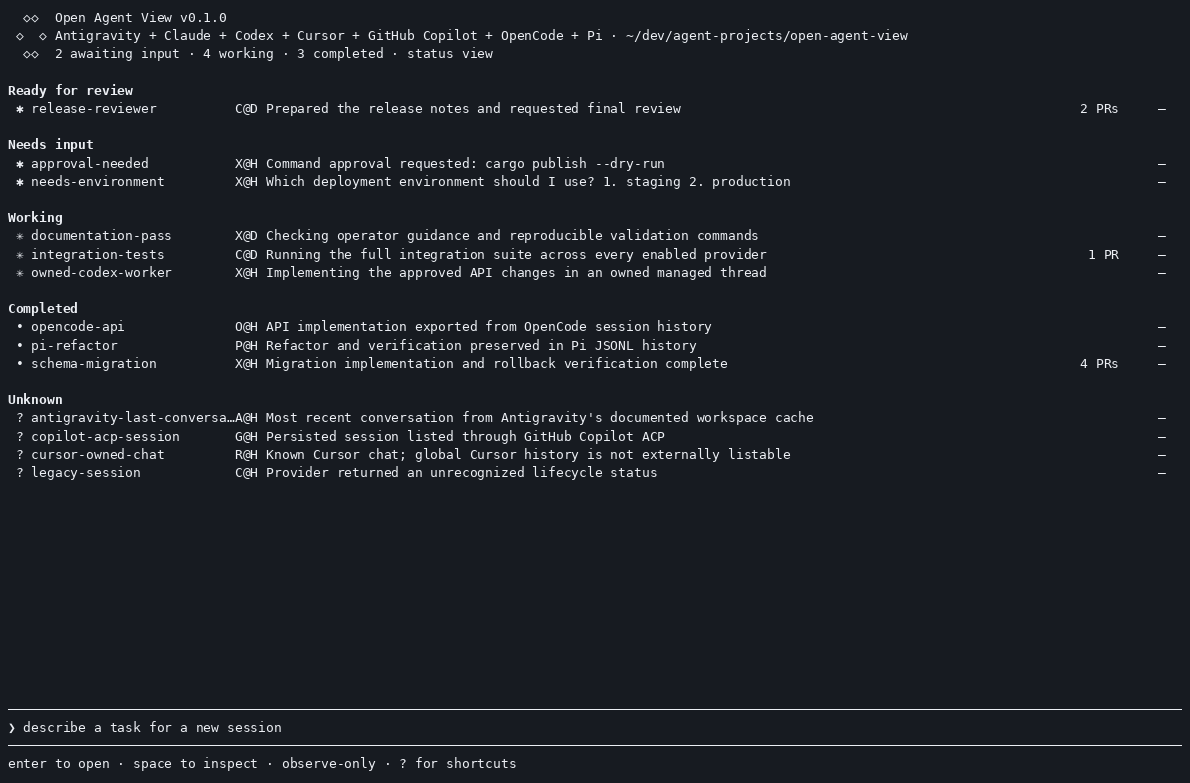
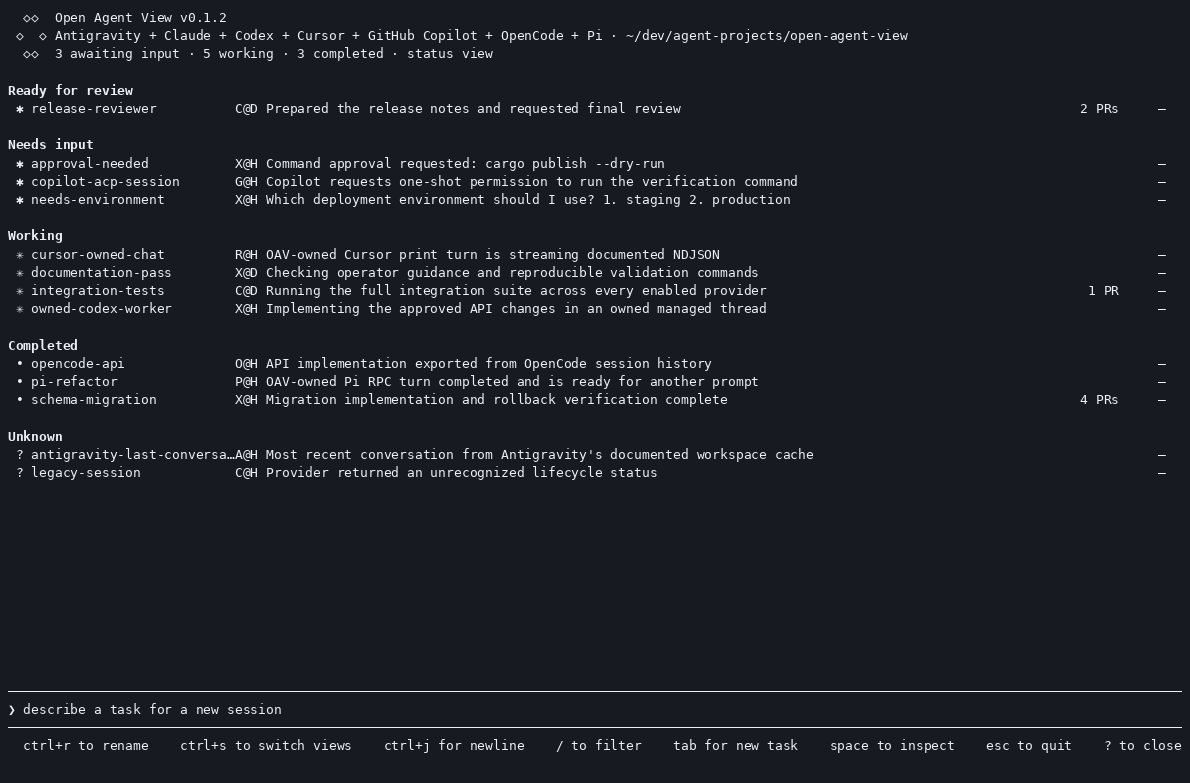
release: prepare private preview v0.1.2

diff --git a/tests/real_tty.rs b/tests/real_tty.rs
@@ -266,7 +266,7 @@ fn all_supported_providers_coexist_in_one_real_terminal() {
 fn wide_real_tty_exercises_primary_interactions_and_restores_terminal() {
     let mut app = PtyApp::spawn(120, 34);
     let startup = app.wait_for("populated startup view", |screen| {
-        screen.contains("Open Agent View v0.1.1")
+        screen.contains("Open Agent View v0.1.2")
             && screen.contains("Ready for review")
             && screen.contains("approval-needed")
             && screen.contains("schema-migration")
@@ -304,7 +304,9 @@ fn wide_real_tty_exercises_primary_interactions_and_restores_terminal() {
     app.send(b"approval");
     app.send(ENTER);
     let filtered = app.wait_for("applied filter", |screen| {
-        screen.contains("approval-needed") && !screen.contains("release-reviewer")
+        screen.contains("approval-needed")
+            && !screen.contains("release-reviewer")
+            && screen.contains("type to start a new session · / to change filter")
     });
     assert!(filtered.contains("type to start a new session · / to change filter"));
 
@@ -581,7 +583,7 @@ fn real_tty_renders_actionable_request_and_confirmation_states() {
 fn narrow_and_tiny_real_ttys_have_bounded_fallback_layouts() {
     let mut narrow = PtyApp::spawn(55, 18);
     let startup = narrow.wait_for("narrow startup", |screen| {
-        screen.contains("Open Agent View v0.1.1")
+        screen.contains("Open Agent View v0.1.2")
             && screen.contains("2 awaiting · 4 working · 2 completed")
             && screen.contains("release-reviewer")
             && screen.contains("? for shortcuts")

diff --git a/docs/release.md b/docs/release.md
@@ -6,13 +6,14 @@ artifacts consumed by [`install.sh`](../install.sh).
 
 ## Current release status
 
-Version 0.1.1 is the initial private preview release. The unpublished `v0.1.0`
-build tag was retained rather than moved after its native macOS gate exposed a
-portability error. The repository is private, so preview installation requires
-an authenticated GitHub account until the project is made public. A version tag
-alone is not sufficient: present the one-line installer as usable only after
-its GitHub release contains the archive and checksum for every supported
-target:
+Version 0.1.2 is the initial private preview release. The unpublished `v0.1.0`
+and `v0.1.1` build tags were retained rather than moved after their native
+release gates exposed, respectively, a macOS portability error and an
+incremental terminal-repaint race in the test harness. The repository is
+private, so preview installation requires an authenticated GitHub account
+until the project is made public. A version tag alone is not sufficient:
+present the one-line installer as usable only after its GitHub release contains
+the archive and checksum for every supported target:
 
 ```text
 open-agent-view-VERSION-x86_64-unknown-linux-gnu.tar.gz

diff --git a/CHANGELOG.md b/CHANGELOG.md
@@ -8,10 +8,11 @@ and future released versions are intended to follow Semantic Versioning.
 
 ## [Unreleased]
 
-## [0.1.1] - 2026-08-18
+## [0.1.2] - 2026-08-18
 
-The `v0.1.0` build tag did not publish a GitHub release because its native
-macOS gate exposed a portability error. It was not moved or reused.
+The `v0.1.0` and `v0.1.1` build tags did not publish GitHub releases because
+their native gates exposed a macOS portability error and a terminal-test
+repaint race, respectively. Neither tag was moved or reused.
 
 ### Added
 
@@ -68,7 +69,7 @@ macOS gate exposed a portability error. It was not moved or reused.
 
 ### Known limitations
 
-- Version 0.1.1 is a private preview rather than a supported public stable
+- Version 0.1.2 is a private preview rather than a supported public stable
   release or package-registry distribution.
 - No authenticated Claude/Codex lifecycle has been recorded inside the fresh
   credential-free Docker TUI probes.

diff --git a/docs/exploration/codex-integration.md b/docs/exploration/codex-integration.md
@@ -85,7 +85,7 @@ response, then sends the `initialized` notification. No other request is valid
 before that handshake. Use client metadata such as:
 
 ```json
-{"method":"initialize","id":1,"params":{"clientInfo":{"name":"open_agent_view","title":"Open Agent View","version":"0.1.1"}}}
+{"method":"initialize","id":1,"params":{"clientInfo":{"name":"open_agent_view","title":"Open Agent View","version":"0.1.2"}}}
 ```
 
 The 0.144.4 response included `userAgent`, `codexHome`, `platformFamily`, and
